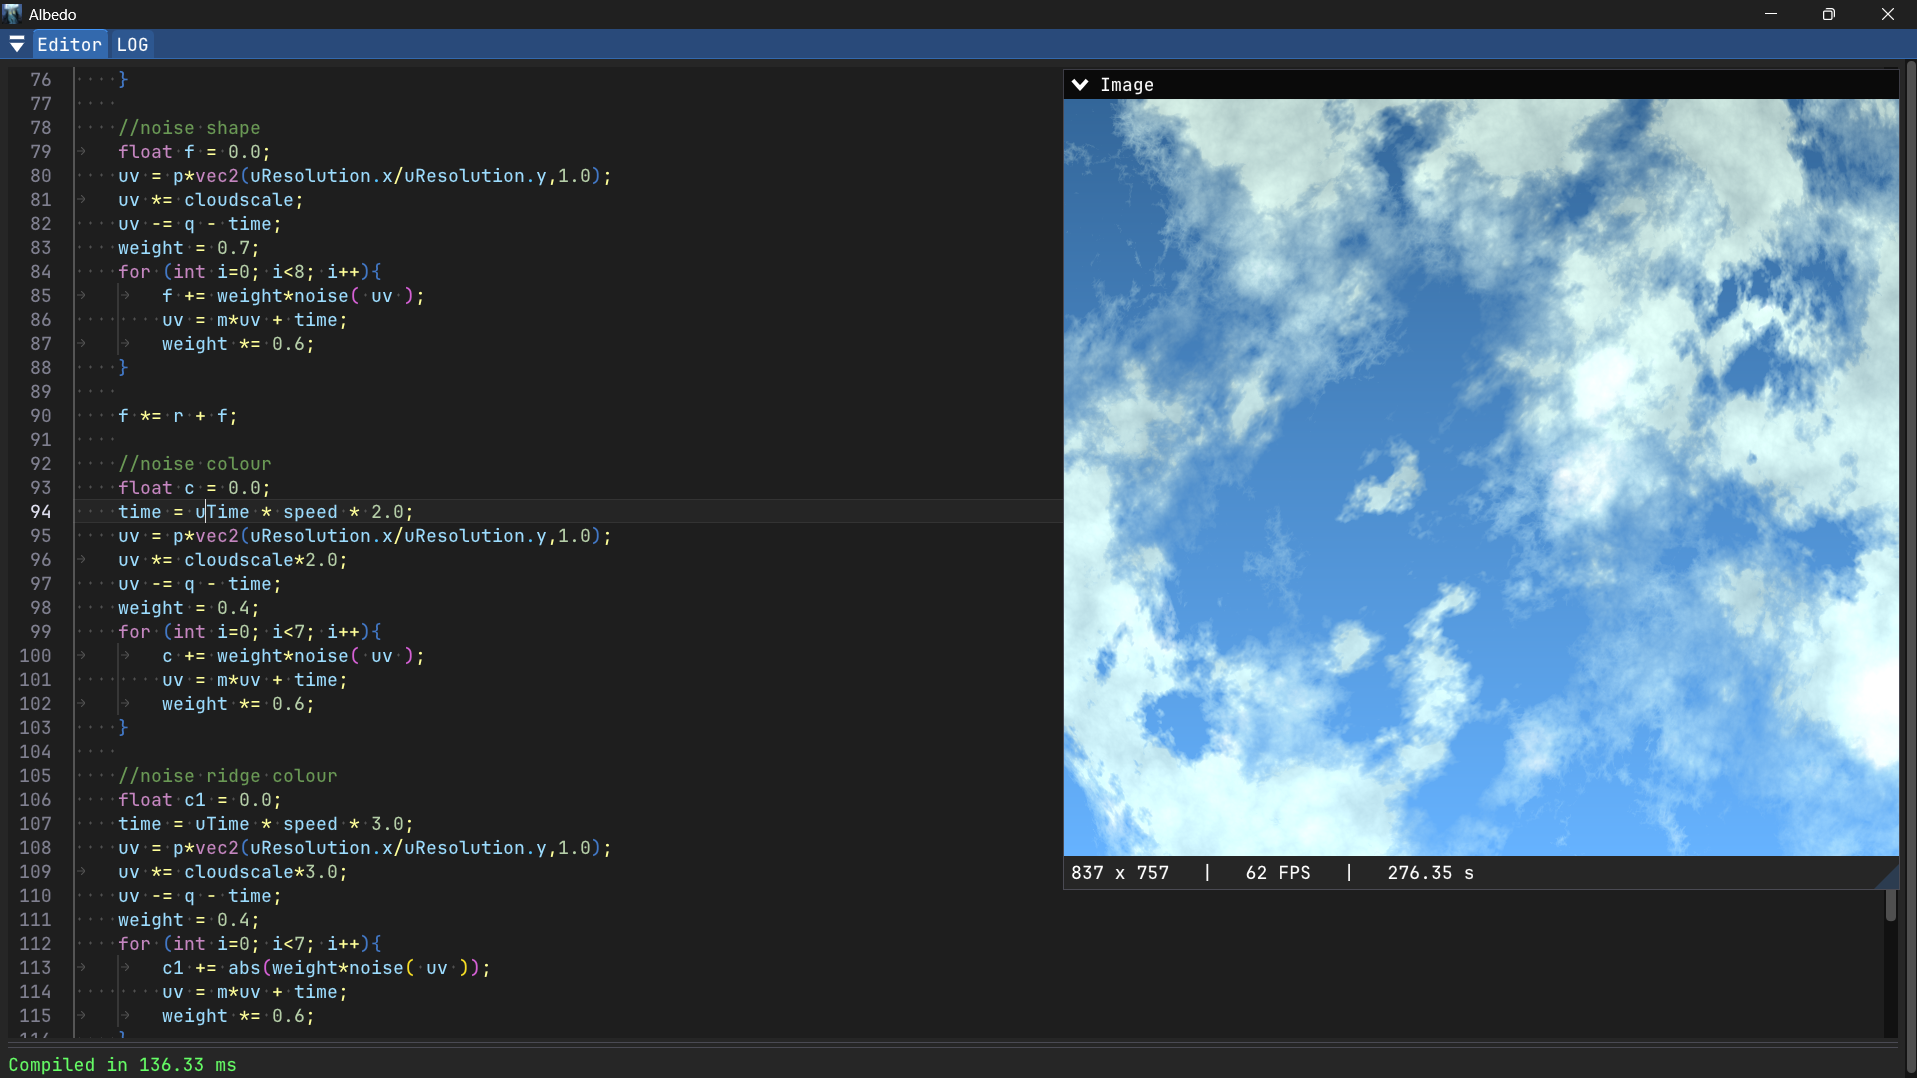
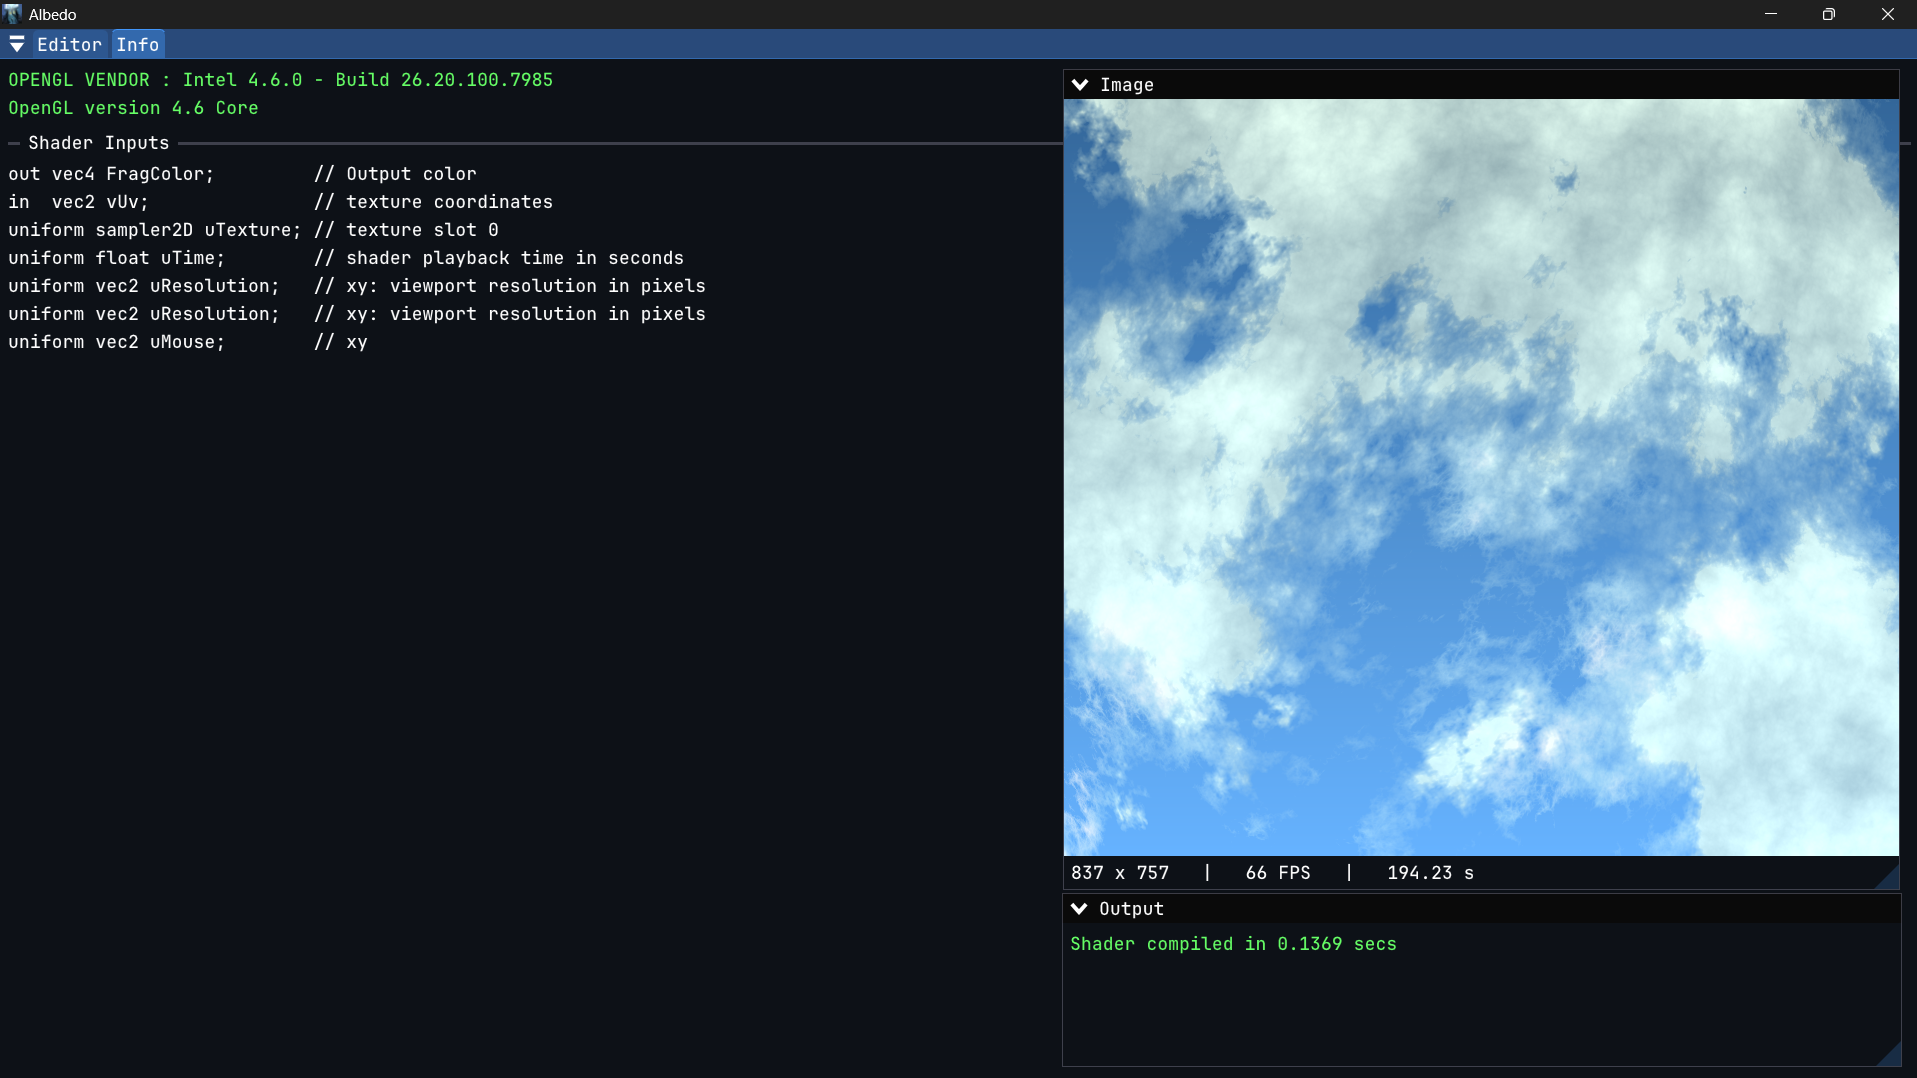
Updated readme

diff --git a/README.md b/README.md
@@ -14,23 +14,24 @@ Program your shader and see it changing side by side. Written in modern C++ for 
 ## Features
 - Fast shader compilation and rendering 
 - Resizable panels : editors, scene , log 
-- Syntax highlighting and error message.
+- Github like syntax highlighting and error message.
 - Dark window title bar ( I'm so proud of this ) 
 
 
 ## Gallery 
 
-![main](gallery/ui1.png)
-
-----
-![clouds](gallery/ui2.png)
+![main](gallery/ui0.png)
 
 ----
 
-Shader Credit : https://www.shadertoy.com/view/llXfRr
+**Shader Credit** : https://www.shadertoy.com/view/llXfRr
 
-![trees](gallery/ui3.png)
+![tree](gallery/ui1.png)
 
+
+**Shader credit** : https://www.shadertoy.com/view/4tdSWr
+
+![cloud](gallery/ui2.png)
 
 ## Setup
 
@@ -78,6 +79,7 @@ AI usage for Code generation and documentation is forbidden for this project.
 The follwing are  LLM generated : 
 - `dependencies.cmake` 
 - `CMakePresets.json` 
+- `GlslTheme.hpp`
 - CMLs in Vendors directories.
 
 
